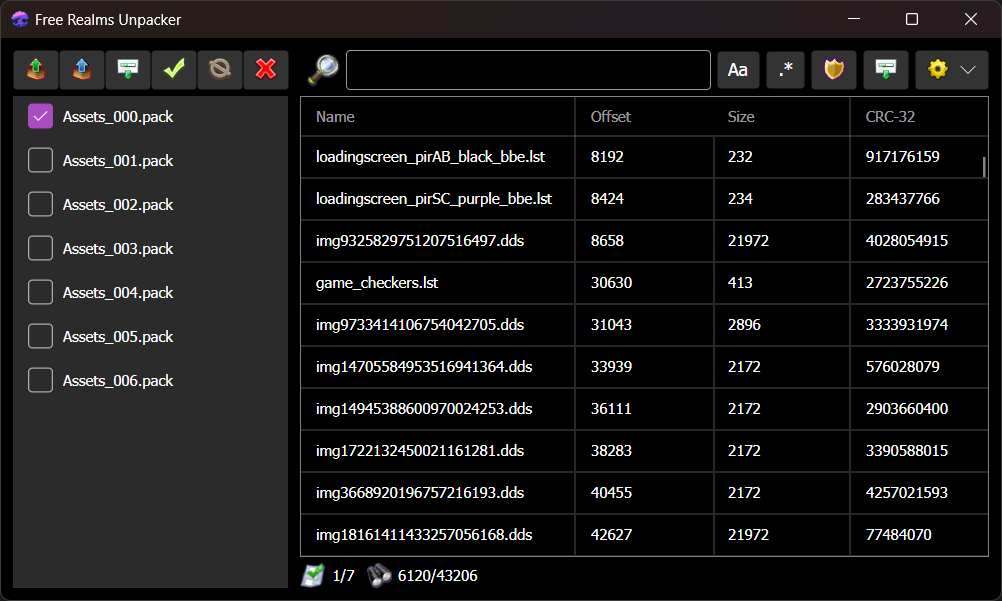
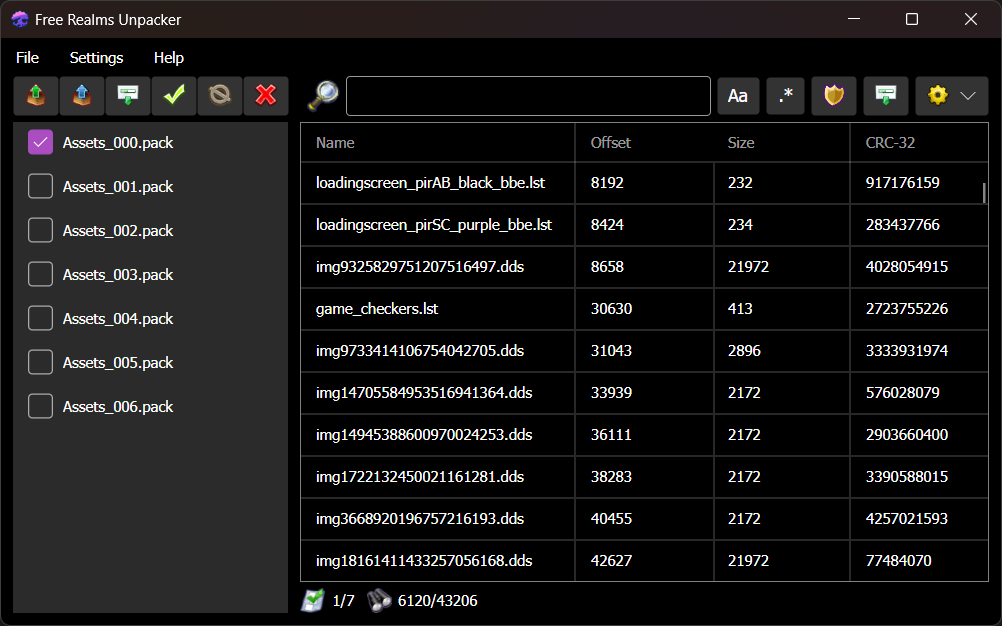
Adjusted GUI height and preview image

Changed region(s): [[0.0, 0.0, 0.99, 0.9884]]

diff --git a/UnpackerGui/Converters/EnumToBooleanConverter.cs b/UnpackerGui/Converters/EnumToBooleanConverter.cs
@@ -17,7 +17,8 @@ public class EnumToBooleanConverter : IValueConverter
 
     public object? ConvertBack(object? value, Type targetType, object? parameter, CultureInfo culture) => value switch
     {
-        bool x when Enum.TryParse(targetType, parameter as string, out object? result) => x ? result : BindingOperations.DoNothing,
-        _ => new BindingNotification(new InvalidCastException(), BindingErrorType.Error),
+        true when Enum.TryParse(targetType, parameter as string, out object? result) => result,
+        false => BindingOperations.DoNothing,
+        _ => new BindingNotification(new InvalidCastException(), BindingErrorType.Error)
     };
 }
